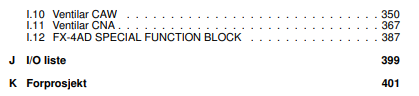
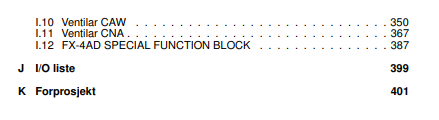
Endre skalering

diff --git a/Latex1/Appendix/Vedlegg.tex b/Latex1/Appendix/Vedlegg.tex
@@ -5,14 +5,14 @@
 
 \begin{figure}[H]
     \centering
-    \includegraphics[width=0.8\textwidth]{Appendix/ListeAvVedlegg1.png}
+    \includegraphics[width=0.78\textwidth]{Appendix/ListeAvVedlegg1.png}
     \caption*{} % Exclude from list of figures
     \label{fig:VedlegListe1}
 \end{figure}
 
 \begin{figure}[H]
     \centering
-    \includegraphics[width=0.8\textwidth]{Appendix/ListeAvVedlegg2.png}
+    \includegraphics[width=0.78\textwidth]{Appendix/ListeAvVedlegg2.png}
     \caption*{} % Exclude from list of figures
     \label{fig:VedlegListe2}
 \end{figure}
